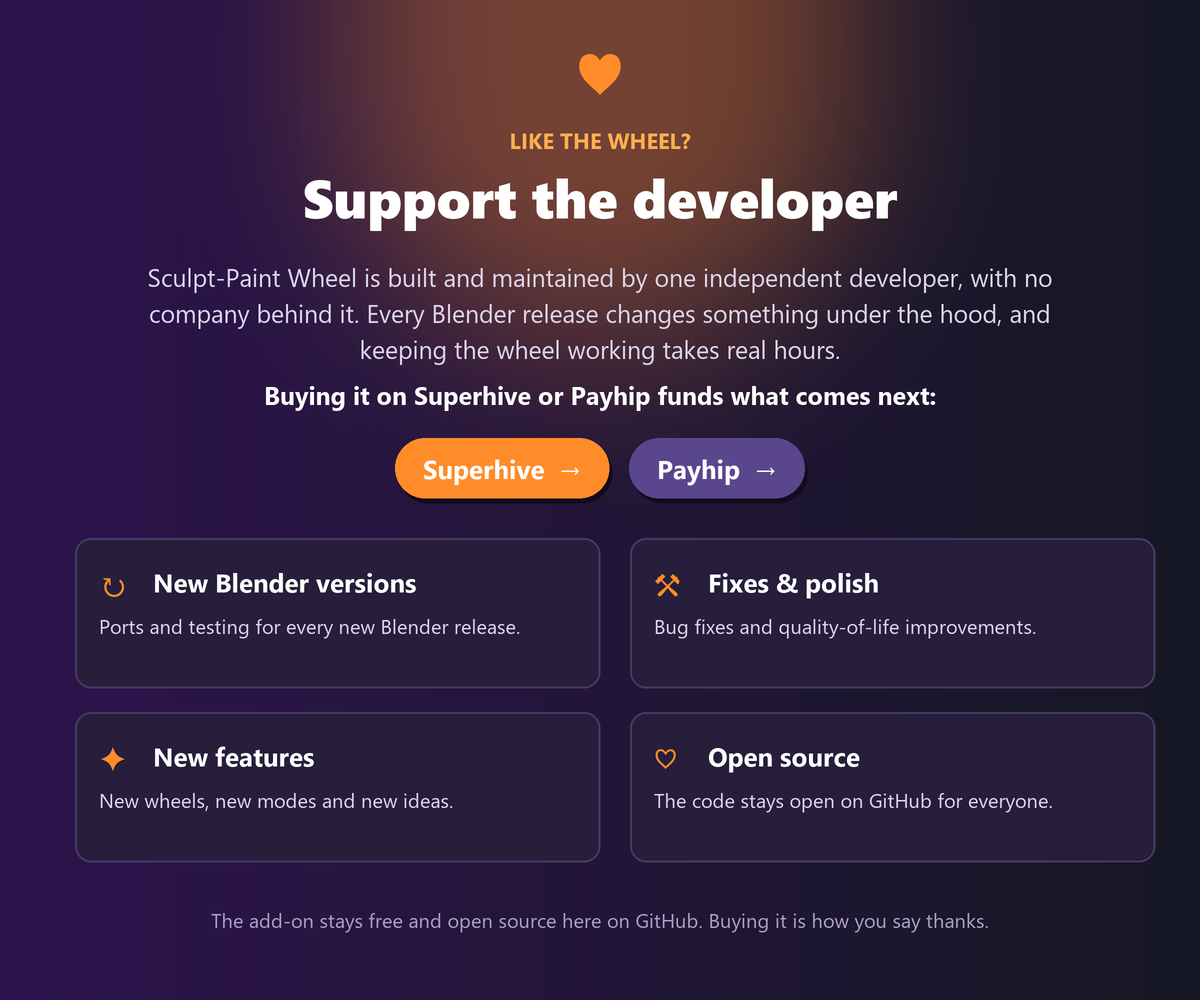
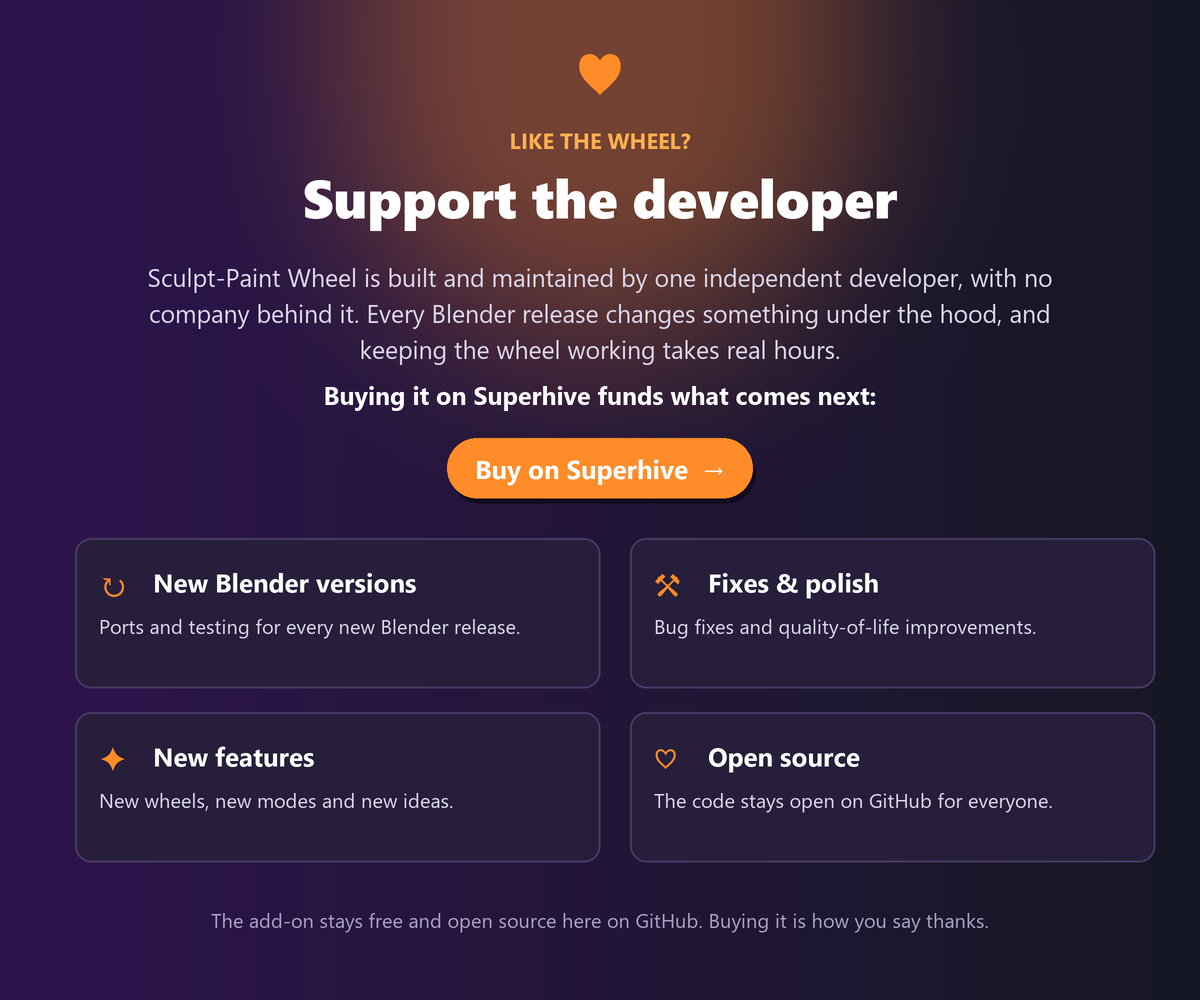
Remove Payhip references; Superhive is the only store

Changed region(s): [[0.3083, 0.434, 0.6783, 0.527], [0.2158, 0.372, 0.7708, 0.434]]

diff --git a/store/tools/promo_images.py b/store/tools/promo_images.py
@@ -262,12 +262,12 @@ def support_image(name, kicker, title, cta, footer, pills=()):
     save(img, H, name)
 
 
-# GitHub: points to the stores.
+# GitHub: points to the store.
 support_image(
     "06_support_github.png", "LIKE THE WHEEL?", "Support the developer",
-    "Buying it on Superhive or Payhip funds what comes next:",
+    "Buying it on Superhive funds what comes next:",
     "The add-on stays free and open source here on GitHub. Buying it is how you say thanks.",
-    pills=(("Superhive  →", ORANGE), ("Payhip  →", (90, 70, 140))),
+    pills=(("Buy on Superhive  →", ORANGE),),
 )
 # Stores: thanks the buyer, no pricing talk.
 support_image(

diff --git a/store/README.md b/store/README.md
@@ -5,7 +5,6 @@ Marketing material for the store listings of Sculpt-Paint Wheel. This folder isn
 | Store | Product page | Contents |
 |---|---|---|
 | [Superhive](superhive/) | https://superhivemarket.com/products/sculpt-paint-wheel | `description.html` (product description), `docs.html` (documentation tab, generated from `DOCS.md` by `build_docs.py`) and `images/` for the gallery |
-| [Payhip](payhip/) | https://payhip.com/b/zXfm2 | `README.md` (image order and text links) and `images/` |
 
 The images are copies of `docs/images/promo/`. They're regenerated from real Blender 5.3 screenshots, so if the add-on's look changes, update `docs/images/promo/` first and copy the files here again.
 
@@ -21,7 +20,7 @@ Superhive's description and documentation editors don't accept `<head>`, `<style
 python store/tools/build_release.py
 ```
 
-Creates `build/store/spwheel-<version>.zip` (ignored by git) with Blender's own extension builder, from the git-tracked files only, and validates it. Upload that zip as the product file on Superhive and Payhip, and attach it to the GitHub release. Blender is found automatically; pass `--blender PATH` to choose one.
+Creates `build/store/spwheel-<version>.zip` (ignored by git) with Blender's own extension builder, from the git-tracked files only, and validates it. Upload that zip as the product file on Superhive, and attach it to the GitHub release. Blender is found automatically; pass `--blender PATH` to choose one.
 
 ## Image tools
 

diff --git a/FAQ.md b/FAQ.md
@@ -109,15 +109,15 @@ In `preferences.json`, inside an `spwheel` folder in Blender's user configuratio
 
 ### If it's free, why is it for sale?
 
-Buying it on [Superhive](https://superhivemarket.com/products/sculpt-paint-wheel) or [Payhip](https://payhip.com/b/zXfm2) is how you support its development. Sculpt-Paint Wheel is maintained by one independent developer, and every new Blender version needs porting, testing and fixing. Purchases fund that work, so the add-on keeps improving and stays free for everyone, including students and artists who can't afford to buy it.
+Buying it on [Superhive](https://superhivemarket.com/products/sculpt-paint-wheel) is how you support its development. Sculpt-Paint Wheel is maintained by one independent developer, and every new Blender version needs porting, testing and fixing. Purchases fund that work, so the add-on keeps improving and stays free for everyone, including students and artists who can't afford to buy it.
 
 ### Do buyers get a different version?
 
 No. Everyone gets the same add-on, with the same features. Buying it is a way of saying thanks and keeping the project alive.
 
-### Where should I buy it?
+### Where can I buy it?
 
-Wherever you prefer: [Superhive](https://superhivemarket.com/products/sculpt-paint-wheel) or [Payhip](https://payhip.com/b/zXfm2). Both support the same developer.
+On [Superhive](https://superhivemarket.com/products/sculpt-paint-wheel).
 
 ### Can I help without buying it?
 

diff --git a/README.md b/README.md
@@ -5,7 +5,7 @@
 </p>
 
 <h3 align="center">
-  ❤ Like this add-on? Support the developer by buying it on <a href="https://superhivemarket.com/products/sculpt-paint-wheel">Superhive</a> or <a href="https://payhip.com/b/zXfm2">Payhip</a> ❤
+  ❤ Like this add-on? <a href="https://superhivemarket.com/products/sculpt-paint-wheel">Support the developer by buying it on Superhive</a> ❤
 </h3>
 
 ---
@@ -117,12 +117,10 @@ Your preferences, brush sets and custom buttons are saved to disk and restored w
 
 ![Support the developer](docs/images/promo/06_support_github.png)
 
-Sculpt-Paint Wheel stays **free and open source** here on GitHub. If it saves you time, you can support its development by buying it on either store:
+Sculpt-Paint Wheel stays **free and open source** here on GitHub. If it saves you time, you can support its development by buying it on Superhive:
 
 <p align="center">
   <a href="https://superhivemarket.com/products/sculpt-paint-wheel"><b>➜ Buy on Superhive</b></a>
-  &nbsp;&nbsp;•&nbsp;&nbsp;
-  <a href="https://payhip.com/b/zXfm2"><b>➜ Buy on Payhip</b></a>
 </p>
 
 ![More ways to help: star on GitHub, report bugs, share it](docs/images/promo/07_help.png)

diff --git a/DOCS.md b/DOCS.md
@@ -288,6 +288,6 @@ To change the key, go to **Edit › Preferences › Keymap**, search for `Sculpt
 
 Sculpt-Paint Wheel is **free and open source**, just like Blender. It's maintained by one independent developer, and every new Blender version needs porting, testing and fixing.
 
-If it saves you time, you can support its development by buying it on [Superhive](https://superhivemarket.com/products/sculpt-paint-wheel) or [Payhip](https://payhip.com/b/zXfm2). Purchases keep the add-on improving and available to everyone, including students and artists who can't afford to buy it.
+If it saves you time, you can support its development by buying it on [Superhive](https://superhivemarket.com/products/sculpt-paint-wheel). Purchases keep the add-on improving and available to everyone, including students and artists who can't afford to buy it.
 
 You can also help by [starring the repository](https://github.com/jfran3d/Sculpt-Paint-Wheel-Reborn), [reporting bugs](https://github.com/jfran3d/Sculpt-Paint-Wheel-Reborn/issues), and sharing it with other Blender artists. Thank you! ♥
